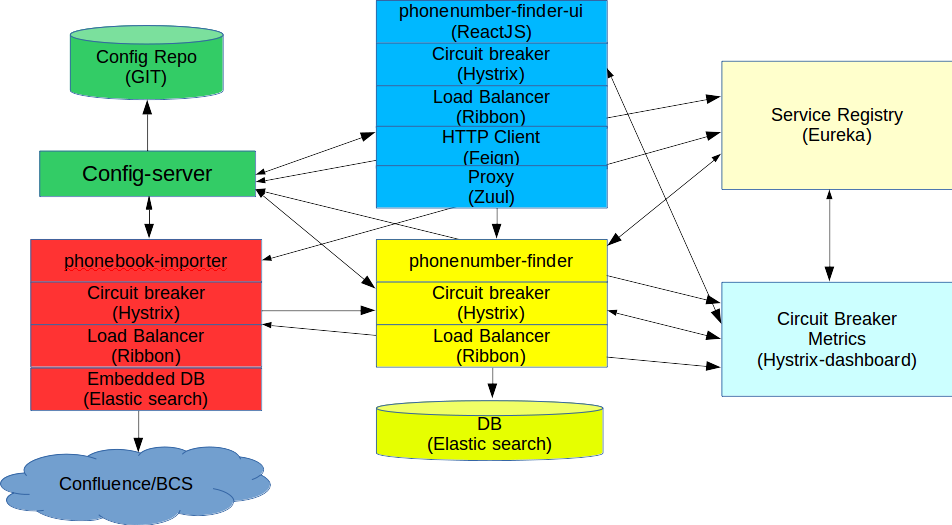
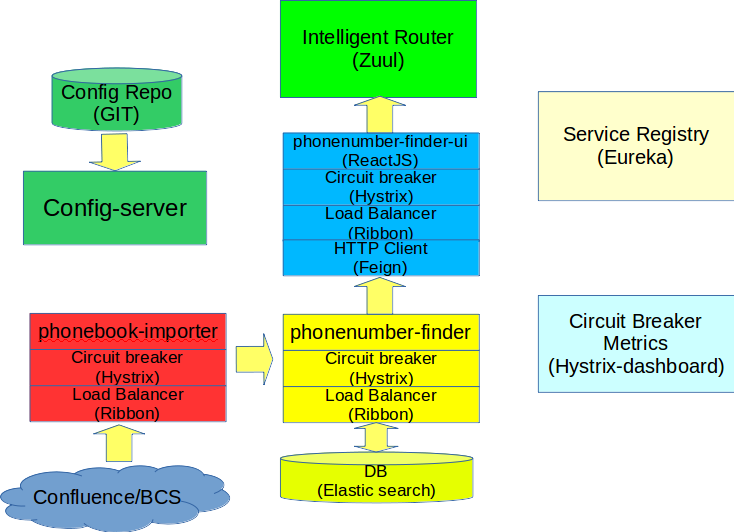
adjusted background size and added new architecture picture

diff --git a/phone-book-presentation/index.html b/phone-book-presentation/index.html
@@ -187,7 +187,7 @@
             </section>
         </section>
 
-        <section data-background="img/minions_thanks.gif">
+        <section data-background="img/minions_thanks.gif" data-background-size="80%">
 
         </section>
 
